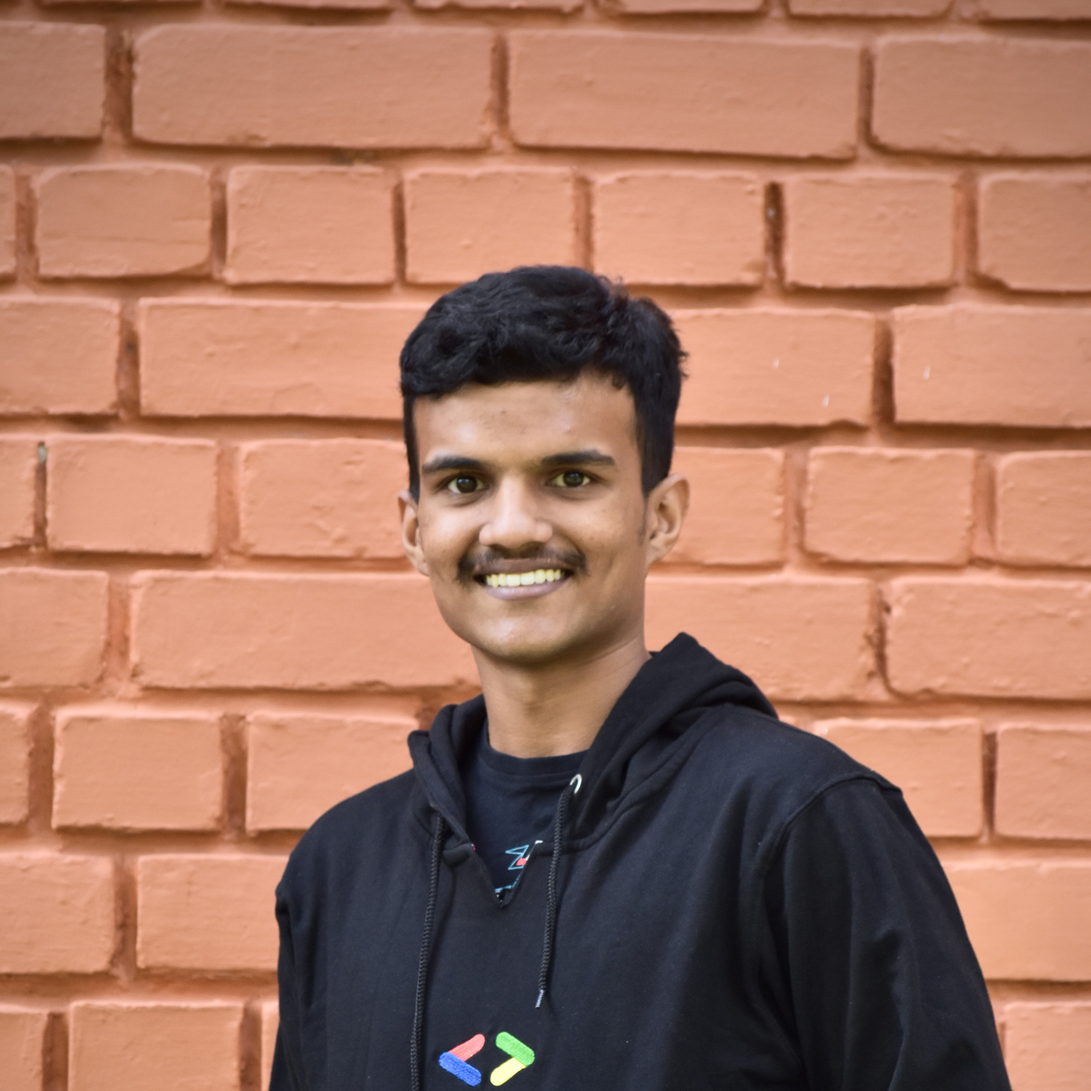
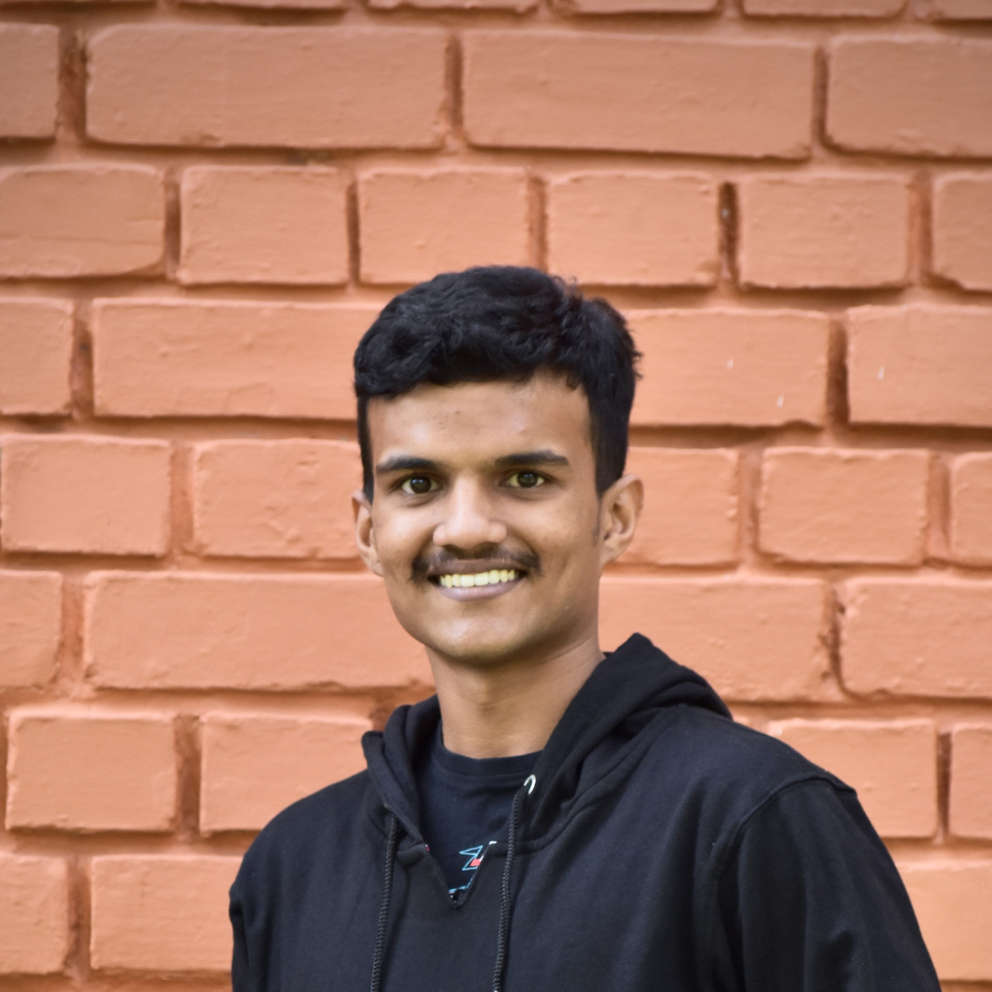
team changes after deploy
-> Modified Preeti's Bio
-> Modified Chandan's img
-> Altered subTeam to display text-center (issues in small devices)

diff --git a/src/assets/team/teamData2022.js b/src/assets/team/teamData2022.js
@@ -158,7 +158,7 @@ const teamData2022 = {
           [
             {
               name: "Chandan S Gowda",
-              image: "/images/team/2022/chandan.jpg",
+              image: "/images/team/2022/chandan2.jpg",
               short: "An ambivert who loves fitness and eating healthy. He is..",
               bio: " hard working and passionate about technology. Success makes him happy and he’s never afraid to step out of his comfort zone. He loves to play cricket and building startups. The only sad thing is he doesn't like marvel :)",
                instagram: "https://www.instagram.com/i_am_csg/",
@@ -289,7 +289,7 @@ bio:` “King Kohli,” Akash is always up for anything fun. He is a good analys
               image: "/images/team/2022/Preeti.jpg",
               short:
                 "She's a born leader, and an invaluable asset to the team ..",
-bio:"with her experience and resourcefulness. A badass, Preeti is never hesitant to express her opinions, offer guidance and give critical feedback wherever required. She is also a great swimmer!",              instagram: "https://medium.com/@shaikhfizashaikh",
+bio:"with her experience and resourcefulness. Preeti is never hesitant to express her opinions, offer guidance and give critical feedback wherever required. She is also a great swimmer!",              instagram: "https://medium.com/@shaikhfizashaikh",
               github: "https://github.com/preeti1202",
               linkedin: "http://linkedin.com/in/preeti-alagundagi-7186621ab",
               twitter: "",

diff --git a/src/components/TeamSection.jsx b/src/components/TeamSection.jsx
@@ -125,12 +125,11 @@ function TeamSection({ isDark, currentRef }) {
               subVal.map((subTeam) => (
                 <div className="flex my-6  w-full flex-col items-center justify-center">
                   {typeof subTeam === "string" ? (
-                    <div className="font-bold text-2xl dark:text-lightnav">
+                    <div className="font-bold text-center text-2xl dark:text-lightnav">
                       {subTeam}
                     </div>
                   ) : (
                     <div className="flex flex-col items-center w-full lg:justify-around flex-wrap lg:flex-row">
-                      {console.log(subTeam)}
                       {subTeam.map((subTeamData, idx) => (
                         <MemberCard
                           name={subTeamData.name}
